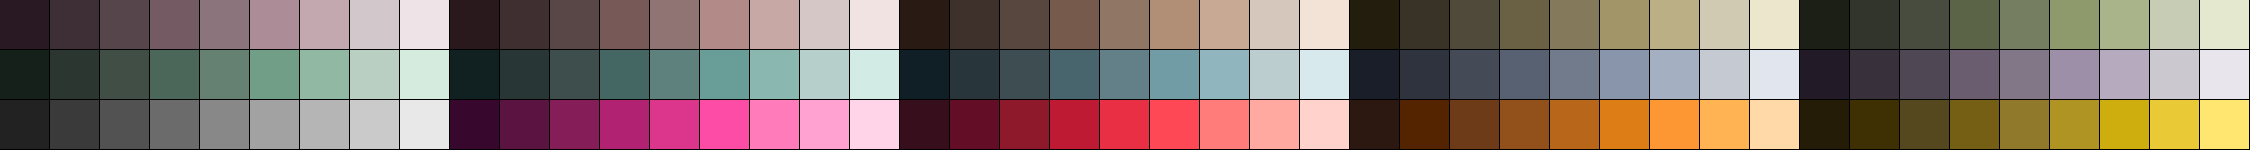
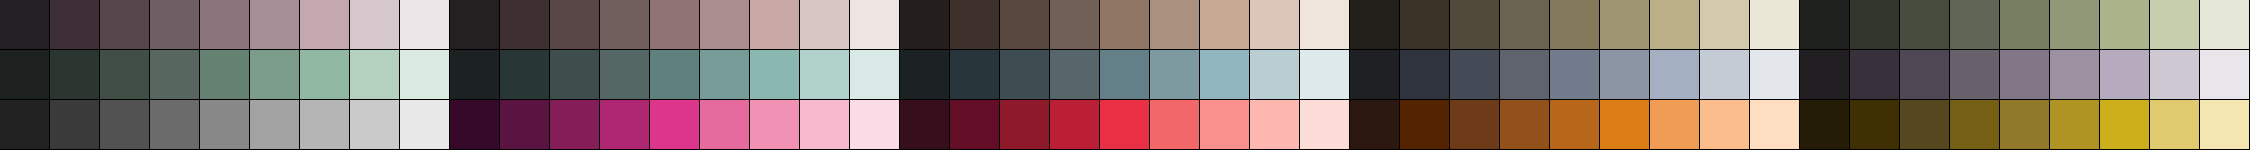
checkpoint

diff --git a/color/general_palette.py b/color/general_palette.py
@@ -106,9 +106,11 @@ def adjust_chroma(value: int, peak_chroma: int, peak_value) -> float:
     if value == peak_value:
         return peak_chroma
     elif value < peak_value:
-        return peak_chroma * ((value + 1.5) / peak_value)
+        slope = peak_chroma / (peak_value + 1.0)
+        return peak_chroma - slope * (peak_value - value)
     else:
-        return peak_chroma * ((11.5 - value) / peak_value)
+        slope = peak_chroma / (peak_value - 10.0)
+        return peak_chroma - slope * (peak_value - value)
 
 
 # Palette size
